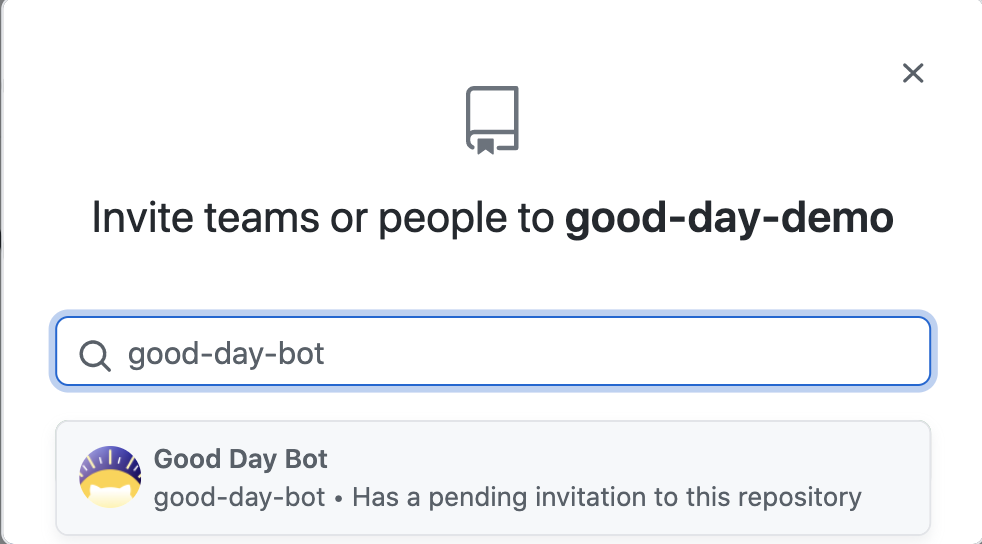
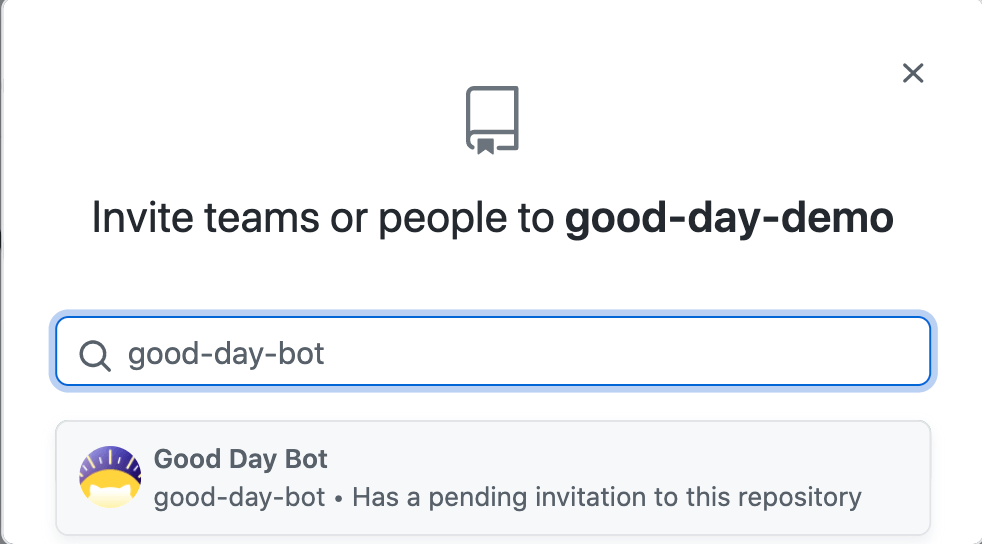
update viz screenshot & move images

Changed region(s): [[0.0611, 0.6875, 0.947, 0.7188], [0.0611, 0.5625, 0.9165, 0.5938], [0.0611, 0.8438, 0.1527, 0.9062]]

diff --git a/src/slack-home.ts b/src/slack-home.ts
@@ -51,7 +51,7 @@ export const getHomeBlocks = async (user: User) => {
         },
         {
           type: 'image',
-          image_url: 'https://github.com/githubocto/good-day-bot/blob/main/images/invite-permission.png?raw=true',
+          image_url: 'https://github.com/githubocto/good-day-bot/blob/main/assets/invite-permission.png?raw=true',
           alt_text: 'Add good-day-bot to your repo',
         },
 
@@ -64,7 +64,7 @@ export const getHomeBlocks = async (user: User) => {
         },
         {
           type: 'image',
-          image_url: 'https://github.com/githubocto/good-day-bot/blob/main/images/write-permission.png?raw=true',
+          image_url: 'https://github.com/githubocto/good-day-bot/blob/main/assets/write-permission.png?raw=true',
           alt_text: 'Enable write premissions (if given the option)',
         },
       ];
@@ -122,7 +122,7 @@ We left the set-up instructions below, in case you want to change your GitHub re
   return ([
     {
       type: 'image',
-      image_url: 'https://github.com/githubocto/good-day-bot/blob/main/images/banner.png?raw=true',
+      image_url: 'https://github.com/githubocto/good-day-bot/blob/main/assets/banner.png?raw=true',
       alt_text: 'The Good Day Project',
     },
     ...header,

diff --git a/README.md b/README.md
@@ -19,18 +19,18 @@ The repo contains the code for the core Good Day Slack bot, which is a Slack ser
 1. Stores a user's GitHub repo and time preference in a database by collecting info from the Slack app home panel.
 2. Messages a user every day on the time they have specified with a new Good Day form.
 3. Stores user's daily data into a `good-day.csv` file in the repo of their choice.
-4. Messages a user every week when new visualization charts have been generated from their data. 
+4. Messages a user every week when new visualization charts have been generated from their data.
 
 **⚠ A note about privacy ⚠**
 
-Once a user creates a GitHub repository they have to invite the `good-day-bot` [GitHub user](https://github.com/good-day-bot) as a collaborator to the repo. This GitHub account (and by extension this Slack app) has write access to ___only this one particular user repo___. This means we are NOT asking for or storing any GitHub user authentication data. 
+Once a user creates a GitHub repository they have to invite the `good-day-bot` [GitHub user](https://github.com/good-day-bot) as a collaborator to the repo. This GitHub account (and by extension this Slack app) has write access to ___only this one particular user repo___. This means we are NOT asking for or storing any GitHub user authentication data.
 
 
 ### Azure functions
 
 This Slack Bot depends on two Azure functions: [https://github.com/githubocto/good-day-azure](https://github.com/githubocto/good-day-azure)
 
-1. **Timed Notify**: This function runs every hour, checks the database for users who need a new form, and hits an endpoint on the express server to trigger a new Good Day form for users daily. 
+1. **Timed Notify**: This function runs every hour, checks the database for users who need a new form, and hits an endpoint on the express server to trigger a new Good Day form for users daily.
 2. **Generate Charts**: This function runs every week and generates visualization charts for users in their GitHub repos. It also hits an endpoint on the express server to notify users new charts are ready.
 
 ## Development
